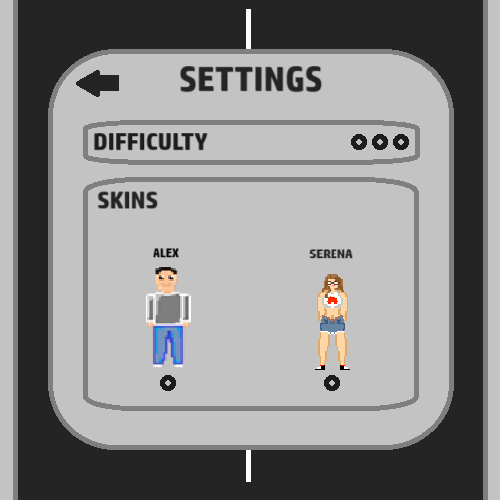
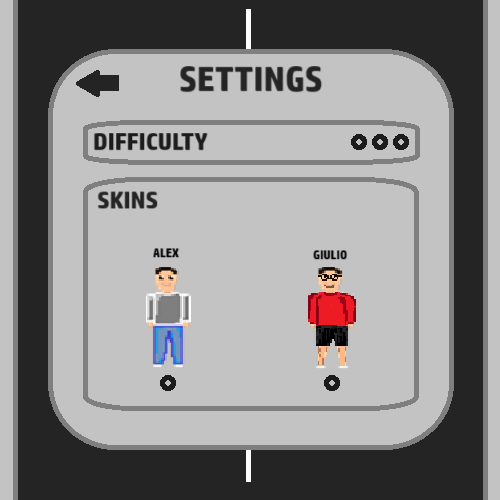
Updated project files

Changed region(s): [[0.6, 0.48, 0.72, 0.75]]

diff --git a/README.md b/README.md
@@ -1,42 +1,44 @@
-# 🚗 Traffic Rush
+# Traffic Rush
 
-Un gioco arcade sviluppato in Python dove devi evitare le auto nel traffico, realizzato durante uno stage universitario.
+[![Python 3](https://img.shields.io/badge/Python-3-3776AB?logo=python&logoColor=white)](Traffic%20Rush/main.py)
 
-## Descrizione
+An arcade game built in Python where you dodge cars in traffic, developed during a university internship.
 
-Questo progetto è stato sviluppato durante uno stage di 30 ore presso l'Università di Parma nell'estate della terza superiore. Si tratta di un gioco in stile endless runner dove controlli un'auto che deve evitare il traffico su una strada a 5 corsie. Più resisti, più aumenta la velocità e il punteggio.
+## Description
 
-## Come Si Gioca
+This project was developed during a 30-hour internship at the University of Parma (Italy) in summer 2025, after the third year of high school. It is an endless runner in which you control a car and dodge traffic on a five-lane road. The longer you survive, the faster the game gets and the higher your score.
 
-- Usa **A/D** o **Frecce** per muoverti tra le corsie
-- Clicca col **mouse** per muoverti verso la posizione del cursore
-- Evita le auto che scendono dall'alto
-- Più duri, più aumenta la velocità
-- Premi **ESC** per tornare al menu
+## How to Play
 
-## Caratteristiche
+- Use **A/D** or the **arrow keys** to move between lanes
+- Click with the **mouse** to move toward the cursor
+- Avoid the cars coming from the top of the screen
+- The longer you survive, the faster the game gets
+- Press **ESC** to return to the menu
 
-- **Menu interattivo** con interfaccia grafica
-- **3 livelli di difficoltà** (velocità massima variabile)
-- **2 skin** per il personaggio
-- **8 tipi** di auto diverse nel traffico
-- **Sistema di punteggio** basato sulla distanza percorsa
-- **Velocità progressiva** che aumenta col tempo
-- **Collisioni** accurate tra veicoli
-- **Schermata credits**
+## Features
 
-## Livelli di Difficoltà
+- **Interactive menu** with a graphical interface
+- **3 difficulty levels** with different maximum speeds
+- **2 player skins**
+- **8 types of traffic cars**
+- **Scoring system** based on distance traveled
+- **Progressive speed** that increases over time
+- **Accurate collision detection** between vehicles
+- **Credits screen**
 
-- **Facile**: velocità massima 80
-- **Medio**: velocità massima 90, incremento velocità raddoppiato
-- **Difficile**: velocità massima 100, incremento velocità triplicato
+## Difficulty Levels
 
-## Struttura File
+- **Easy**: maximum speed of 80
+- **Medium**: maximum speed of 90, with speed increasing twice as fast
+- **Hard**: maximum speed of 100, with speed increasing three times as fast
 
-- `main.py` - Gioco principale
-- `g2d.py` - Libreria grafica (non sviluppata da me)
-- `img/` - Cartella con sprite e grafica
+## File Structure
+
+- `main.py` - Main game
+- `g2d.py` - Graphics library by Michele Tomaiuolo (based on Pygame)
+- `img/` - Sprites and graphics
 
 ---
 
-*Progetto didattico sviluppato durante stage universitario - Estate 2025*
+*Educational project developed during a university internship - June 2025*
